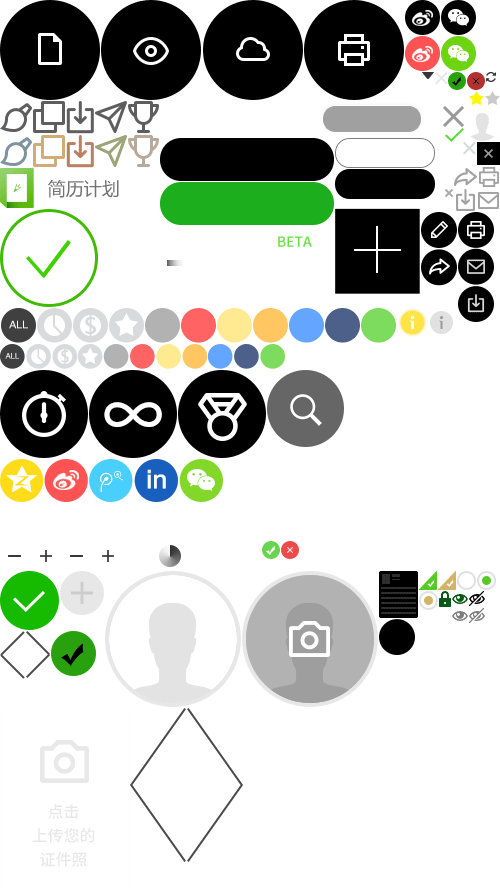
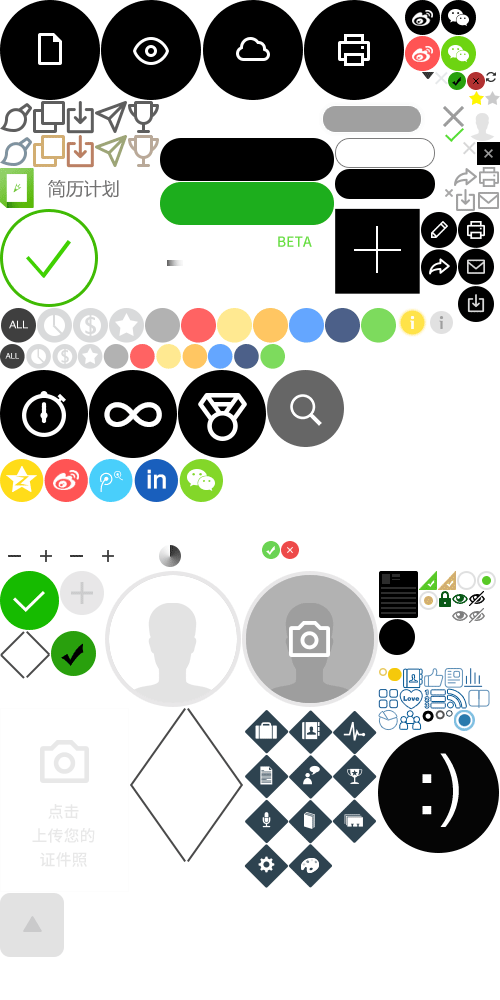
submit

diff --git a/css/style.css b/css/style.css
@@ -69,7 +69,7 @@ a:hover{color:#333; text-decoration:none;}
 .i_icoColorOne, .i_icoColorTwo, .i_icoColorThree, .i_icoColorFour, .i_icoColorFive, .i_icoColorSix, .i_icoColorSeven, .i_icoColorEight, .i_icoColorNine, .i_icoColorTen, .i_icoColorEleven,
 .btnC, .btnD, .btnE, .btnH,
 .i_icoSone, .i_icoStwo, .i_icoSthrere, .i_icoSfour, .i_icoSfive, .i_icoCloseW, .i_icoReplace, .i_icoExport, .i_icoSok, .i_icoLeft, .i_icoRight, .i_icoLeftNo, .i_icoRightNo,
-.i_icoInfo, .i_icoMone, .i_icoMtwo, .i_icoMthree, .i_icoMfour, .i_icoMfive, .i_icoMsix, .i_icoMseven, .i_icoMeight, .i_icoMnine, .i_icoMten, .i_icoMeleven, .i_icoMtwelve, .i_icoAdds, .i_icoCut, .i_icoThrough, .i_icoLoad, .i_icoWadd, .i_icoCloseSmall, .i_icoErrors, .loginImgA, .i_icoPay, .payTableGreen i, .payTableOrange i, .payCon_radio i, .payCon_radioGreen.on i, .payCon_radioOrange.on i, .i_icoPicture, .i_icoPoint, .i_icoPoints, .i_icoPointss, .i_icoPointssss, .i_icoLock, .i_icoLookB, .i_icoUnlook, .i_icoLooks, .i_icoUnlooks, .resumeMenu_list a:hover i, .i_icoTime
+.i_icoInfo, .i_icoMone, .i_icoMtwo, .i_icoMthree, .i_icoMfour, .i_icoMfive, .i_icoMsix, .i_icoMseven, .i_icoMeight, .i_icoMnine, .i_icoMten, .i_icoMeleven, .i_icoMtwelve, .i_icoAdds, .i_icoCut, .i_icoThrough, .i_icoLoad, .i_icoWadd, .i_icoCloseSmall, .i_icoErrors, .loginImgA, .i_icoPay, .payTableGreen i, .payTableOrange i, .payCon_radio i, .payCon_radioGreen.on i, .payCon_radioOrange.on i, .i_icoPicture, .i_icoPoint, .i_icoPoints, .i_icoPointss, .i_icoPointssss, .i_icoLock, .i_icoLookB, .i_icoUnlook, .i_icoLooks, .i_icoUnlooks, .resumeMenu_list a:hover i, .i_icoTime, .i_icoBone, .i_icoBtwo, .i_icoBthree, .i_icoBfour, .i_icoBfive, .i_icoBsix, .i_icoBseven, .i_icoBeight, .i_icoBnine, .i_icoBten, .i_icoBeleven, .i_icoBtwelve, .i_icoBthirteen, .i_icoCone, .i_icoCtwo, .i_icoCthree, .i_icoCfour, .i_icoCfive, .i_icoCsix, .i_icoCseven, .i_icoCeight, .i_icoCnine, .i_icoCten, .i_icoCeleven, .i_icoCtwelve, .i_icoPrion, .i_icoNot, .i_icoScrollTop
 {background:url(../images/icon_01.png) no-repeat; _background:url(../images/icon_01_8.png) no-repeat; display:inline-block; vertical-align:middle; overflow:hidden;}
 .logo{background-position:-160px -226px; width:166px; height:40px;}
 .logoOther{background-position:-160px -226px; width:34px; height:40px;}
@@ -204,6 +204,36 @@ a:hover{color:#333; text-decoration:none;}
 .i_icoUnlooks{background-position:-469px -608px; width:16px; height:16px;}
 .i_icoTime{background-position:-388px -668px; width:14px; height:13px;}
 .i_icoYellow{background-color:#ffc739; width:4px; height:4px; display:inline-block; vertical-align:middle;}
+.i_icoBone{background-position:-403px -668px; width:20px; height:20px;}
+.i_icoBtwo{background-position:-424px -668px; width:19px; height:20px;}
+.i_icoBthree{background-position:-444px -668px; width:19px; height:20px;}
+.i_icoBfour{background-position:-464px -668px; width:18px; height:20px;}
+.i_icoBfive{background-position:-378px -689px; width:20px; height:20px;}
+.i_icoBsix{background-position:-399px -689px; width:24px; height:20px;}
+.i_icoBseven{background-position:-424px -689px; width:22px; height:20px;}
+.i_icoBeight{background-position:-447px -689px; width:20px; height:20px;}
+.i_icoBnine{background-position:-468px -689px; width:22px; height:20px;}
+.i_icoBten{background-position:-378px -710px; width:20px; height:20px;}
+.i_icoBeleven{background-position:-399px -710px; width:22px; height:20px;}
+.i_icoBtwelve{background-position:-422px -710px; width:12px; height:12px;}
+.i_icoBthirteen{background-position:-435px -710px; width:10px; height:10px;}
+
+.i_icoCone{background-position:-245px -710px; width:43px; height:43px;}
+.i_icoCtwo{background-position:-289px -710px; width:43px; height:43px;}
+.i_icoCthree{background-position:-333px -710px; width:43px; height:43px;}
+.i_icoCfour{background-position:-245px -755px; width:43px; height:43px;}
+.i_icoCfive{background-position:-289px -755px; width:43px; height:43px;}
+.i_icoCsix{background-position:-333px -755px; width:43px; height:43px;}
+.i_icoCseven{background-position:-245px -800px; width:43px; height:43px;}
+.i_icoCeight{background-position:-289px -800px; width:43px; height:43px;}
+.i_icoCnine{background-position:-333px -800px; width:43px; height:43px;}
+.i_icoCten{background-position:-245px -844px; width:43px; height:43px;}
+.i_icoCeleven{background-position:-289px -844px; width:43px; height:43px;}
+.i_icoCtwelve{background-position:-446px -710px; width:7px; height:7px;}
+
+.i_icoPrion{background-position:-454px -710px; width:21px; height:21px;}
+.i_icoNot{background-position:-378px -732px; width:121px; height:121px;}
+.i_icoScrollTop{background-position:0 -893px; width:64px; height:64px;}
 
 /*按钮*/
 .btnLogin{background-position:-214px -101px; width:106px; height:36px; text-align:center; line-height:36px; color:#fff; font-size:14px;}
@@ -550,6 +580,9 @@ a:hover{color:#333; text-decoration:none;}
 .templateP{height:55px; line-height:55px; width:310px; overflow:hidden; white-space:nowrap; text-overflow:ellipsis; font-size:18px; text-align:center; color:#565656;}
 .templateTime{position:absolute; right:0; bottom:0; font-size:14px; color:#fff;	 width:295px; height:42px; line-height:42px; text-align:right; padding-right:13px;}
 .templateTimeBg{position:absolute; right:0; bottom:0; width:308px; height:42px; background:#000; filter:alpha(opacity=30); -moz-opacity:0.3; -khtml-opacity:0.3; opacity:0.3;}
+.templateBgNot{text-align:center; padding-top:120px;}
+.templateBgNot h2{color:#919191; font-size:30px; line-height:30px; margin-top:70px;}
+.templateBgNot p{color:#919191; margin-top:15px;}
 
 /*白色弹出框*/
 .i_icoPromptBtn{position:fixed; right:12px; top:72px; z-index:1;}
@@ -690,7 +723,10 @@ a:hover{color:#333; text-decoration:none;}
 .resumeCon_right strong{background-color:#d94a39; border-bottom:1px solid #eca69e; line-height:20px; padding:44px 0 5px; color:#fff; font-size:14px; display:block; width:75px; margin-bottom:6px;}
 .resumeCon_right p{line-height:20px;}
 .resumeCon_right span{border-top:1px solid #eca69e; display:block; overflow:hidden; background-color:#d94a39; width:75px; height:5px; margin-top:7px;}
-.resumeConBg_one{position:absolute; left:0; bottom:0; background:#ff1c1c; filter:alpha(opacity=15); -moz-opacity:0.15; -khtml-opacity:0.15; opacity:0.15; width:100%; height:116px;}
+
+/*补丁容器*/
+.resumeConOther{clear:both; border-top:1px solid #ccc; padding:0 28px;}
+.resumeConBg_one{position:absolute; left:0; bottom:0; background:#ff1c1c; filter:alpha(opacity=15); -moz-opacity:0.15; -khtml-opacity:0.15; opacity:0.15; width:100%; height:186px;}
 .resumeConBg_two{position:absolute; left:0; top:0; background:#ff1c1c; filter:alpha(opacity=15); -moz-opacity:0.15; -khtml-opacity:0.15; opacity:0.15; width:50%; height:100%;}
 
 .resumeConBox{padding-top:0;}
@@ -748,10 +784,10 @@ a:hover{color:#333; text-decoration:none;}
 .resumeCon_topRight_b{float:left; color:#757575;}
 .resumeCon_bottom{border-top:1px solid #bdbdbd; padding-top:4px; color:#bdbdbd; margin:60px auto 10px; width:50px; display:block;}
 
-.resumeConE{padding:7px 10px; font-family:Arial;}
+.resumeConE{ font-family:Arial; width:813px; margin:0 auto;}
 .resumeConE_header{background-color:#ffc739; padding:19px 42px; color:#fff;}
 .resumeConE_header img{float:left; width:118px;}
-.resumeConE_headerRight{float:left; margin-left:12px; width:723px; padding-top:15px;}
+.resumeConE_headerRight{float:left; margin-left:12px; width:500px; padding-top:15px;}
 .resumeConE_headerRight h2{ font-size:21px; line-height:26px; height:26px;}
 .resumeConE_headerRight ul{margin-top:5px;}
 .resumeConE_headerRight li{float:left; font-size:14px; line-height:22px; margin-right:10px;}
@@ -767,7 +803,7 @@ a:hover{color:#333; text-decoration:none;}
 .resumeConE_box_info li{margin-top:5px; font-size:13px;}
 .resumeConE_box_info strong{font-size:15px; color:#666; line-height:20px;}
 .resumeConE_box_info i{margin:-2px 6px 0 0;}
-.resumeConE_list_li{border-top:1px dashed #4b4b4b; padding:22px 0;}
+.resumeConE_list_li{border-bottom:1px dashed #4b4b4b; padding:22px 0;}
 .resumeConE_list_title{display:block; color:#666; font-size:15px; position:relative; zoom:1; margin-top:10px;}
 .resumeConE_list_title em{border-left:1px solid #ffc739; margin-left:5px; padding-left:5px;  color:#6a6a6a; font-size:12px; font-weight:normal;}
 .resumeConE_list_title span{position:absolute; right:0; top:0; color:#6a6a6a; font-size:12px; font-weight:normal;}
@@ -778,6 +814,161 @@ a:hover{color:#333; text-decoration:none;}
 .resumeConE_lists em{border-left:1px solid #d2d2d2; color:#ffc739; padding-left:4px;}
 .resumeConE_footer{background-color:#ffc739; height:16px; overflow:hidden;}
 
+.resumeConF{width:813px; margin:0 auto;}
+.resumeConF_header{background-color:#efefee; text-align:center; padding-top:31px;}
+.resumeConF_header img{width:115px; height:115px;
+	-moz-border-radius:60px;
+    -webkit-border-radius:60px;
+    border-radius:60px;
+}
+.resumeConF_header h2{color:#010101; font-size:26px; line-height:30px; margin-top:12px;}
+.resumeConF_header p{text-align:center; color:#005993; line-height:20px; margin-top:10px;}
+.resumeConF_header_nav{height:39px; line-height:39px; color:#fff; background-color:#595b5b; margin-top:5px;}
+.resumeConF_header_nav span{margin:0 20px;}
+
+.titleOne{height:20px; line-height:20px; color:#005993; font-size:16px; border-bottom:1px solid #aaa; display:block;}
+.titleOne span{position:relative; top:10px; background-color:#fff; padding-right:5px;}
+.titleOne i{margin-right:7px; position:relative; top:-3px;}
+
+.resumeConF_con{margin-top:20px; color:#000;}
+.resumeConF_con strong, .resumeConF_con p{position:relative; display:block; line-height:20px;}
+.resumeConF_con strong i, .resumeConF_con p i{position:absolute; top:4px; left:-14px;}
+.resumeConF_con strong span{position:absolute; right:0; top:0; font-weight:normal;}
+.resumeConF_con .fl{width:114px;}
+.resumeConF_con .fr{float:left; width:210px; margin-left:20px;}
+.resumeConF_con .fr strong{color:#005993; display:inline-block;}
+
+.resumeConG{width:813px; margin:0 auto;}
+.resumeConG_header{height:90px; line-height:90px; padding:0 50px;}
+.resumeConG_header strong{font-size:40px; color:#000;}
+.resumeConG_header span{color:#0d6c40; font-size:14px; font-weight:bold; margin-left:28px;}
+.resumeConG_header-img{background-color:#0d6c40; font-size:16px; height:76px; color:#fff; padding:0 50px; position:relative;}
+.resumeConG_header-img ul{width:520px; padding-top:15px;}
+.resumeConG_header-img li{float:left; line-height:24px; margin-right:20px;}
+.resumeConG_header-img p{position:absolute; right:-10px; top:-40px; border:3px solid #0d6c40; width:150px; height:150px; background-color:#fff;
+	-moz-border-radius:80px;
+    -webkit-border-radius:80px;
+    border-radius:80px;
+}
+
+.resumeConG_list{padding:0 40px; margin-top:25px;}
+.resumeConG_list .infoBox h2{font-size:24px; line-height:30px;}
+.resumeConG_listBox{border-left:2px solid #0d6c40; padding:5px 0 5px 12px; margin-top:17px;}
+.resumeConG_listBox strong{color:#0d6c40; font-size:18px; font-weight:normal; position:relative; display:block;}
+.resumeConG_listBox strong span{position:absolute; right:0; top:0; color:#000; font-size:14px; font-weight:bold;}
+.resumeConG_listBox p{font-size:14px; color:#575757; line-height:26px; margin-top:5px;}
+.resumeConG_listBox li{margin-top:3px; line-height:20px;}
+.resumeConG_listBox li i{background-color:#0d6c40; width:5px; height:5px; display:inline-block; vertical-align:middle; margin-right:12px;
+	-moz-border-radius:3px;
+    -webkit-border-radius:3px;
+    border-radius:3px;
+}
+.resumeConG_listBox li span{color:#0d6c40;}
+.resumeConG_listBox_listOther li{width:200px;}
+.resumeConG_listBox_list li{float:left; margin-right:20px;}
+.resumeConG_listBox_list li strong{font-size:12px; display:inline-block; width:100px; height:20px; overflow:hidden; white-space:nowrap; text-overflow:ellipsis; vertical-align:middle;}
+.resumeConG_listBox_list li span{font-size:12px; margin-left:10px; color:#0d6c40; vertical-align:middle;}
+.resumeConG_listBox_list li p{font-size:12px; line-height:20px; color:#575757; margin-top:0; margin-left:17px;}
+.resumeConG_listBox_right{float:left; border-left:3px solid #5ca5da; padding-left:47px; width:532px;}
+.resumeConG_listBox_right strong{font-size:18px; font-weight:normal; margin-bottom:10px; display:block;}
+.resumeConG_listBox_right p{line-height:20px;}
+
+.resumeConHBox{width:813px; margin:0 auto;}
+.resumeConH{background-color:#5ca5da; padding:35px 55px 30px; color:#fff; border-bottom:1px solid #bcbcbc;
+	-moz-box-shadow:0 0 3px #478bbc inset;
+    -webkit-box-shadow:0 0 3px #478bbc inset;
+    box-shadow:0 0 3px #478bbc inset;
+}
+.resumeConH_left{float:left; width:530px;}
+.resumeConH_left h2{font-size:46px; line-height:50px; font-weight:normal;}
+.resumeConH_left ul{margin-top:10px;}
+.resumeConH_left li{float:left; margin-right:10px; font-size:14px; margin-right:10px; line-height:20px; letter-spacing:-0.03em;}
+.resumeConH_right{float:right; width:173px; text-align:right; font-size:16px; letter-spacing:-0.05em; line-height:24px;}
+.resumeConH_right strong{display:block; margin-top:50px;}
+.resumeConH_list{padding:0 55px; color:#666;}
+.resumeConH_list_li{border-bottom:1px dashed #5ca5da; padding:10px 0 20px;}
+.resumeConH_list .infoBox h2{font-size:36px; line-height:40px; font-weight:normal;}
+.resumeConH_listBox{margin-top:20px;}
+.resumeConH_listBox span{float:left; width:200px; padding-left:46px; font-size:16px; line-height:20px; padding-top:10px;}
+.resumeConH_listInfo strong{position:relative; font-size:18px; font-weight:normal; display:block; margin-top:25px;}
+.resumeConH_listInfo span{font-size:14px;}
+.resumeConH_listInfo em{position:absolute; right:0; top:0; font-size:14px;}
+.resumeConH_listInfo i{width:5px; height:5px; background-color:#5ca5da; vertical-align:middle; display:inline-block; margin-right:20px;}
+.resumeConH_listInfo ul{margin-top:15px;}
+.resumeConH_listInfo li{font-size:14px; line-height:24px;}
+.resumeConH_listInfo_list li{float:left; margin-right:20px;}
+.resumeConH_listInfo_list p{margin-left:24px;}
+.resumeConH_listInfo_list p span{color:#5ca5da;}
+.resumeConH_listInfo_listOther li{margin-right:80px;}
+.resumeConH_footer{height:24px; background-color:#5ca5da; border-top:1px solid #c4c4c4; margin-top:55px;}
+
+.resumeConI{width:813px; margin:0 auto;}
+.resumeConI_header{background-color:#5e5e5e; padding:21px 49px 21px 42px; color:#d0d0d0;}
+.resumeConI_header img{float:left; width:121px; height:122px;
+	-moz-border-radius:61px;
+    -webkit-border-radius:61px;
+    border-radius:61px;
+}
+.resumeConI_header_info{float:left; margin-left:25px; width:280px; margin-top:10px;}
+.resumeConI_header_info h2{font-size:34px; line-height:40px; margin-bottom:10px;}
+.resumeConI_header_info p{line-height:20px; font-size:13px;}
+.resumeConI_header_tell{float:right; width:178px; height:55px; border:1px solid #314551; padding:8px 0 0 14px; margin-top:29px;
+	-moz-border-radius:5px;
+    -webkit-border-radius:5px;
+    border-radius:5px;
+}
+.resumeConI_header_tell p{line-height:24px;}
+
+.resumeConI_body{padding:0 38px;}
+.resumeConI_body .infoBox h2{width:138px; height:32px; border:1px solid #4a5c67; display:block; position:relative; text-align:center; line-height:32px; color:#2e4350; font-size:16px; margin-bottom:20px;
+	-moz-border-radius:10px;
+    -webkit-border-radius:10px;
+    border-radius:10px;
+}
+.resumeConI_body h2 i{position:absolute; left:-22px; top:-7px;}
+.resumeConI_body strong{position:relative; display:block; color:#030000; font-size:13px;}
+.resumeConI_body strong i, .resumeConI_body p i{position:absolute; left:-13px; top:3px;}
+.resumeConI_body p i{top:6px;}
+.resumeConI_body strong span{position:absolute; right:0; top:0; font-weight:normal; margin-top:0;}
+.resumeConI_body span{display:block; color:#2e4350; margin-top:8px; font-size:13px;}
+.resumeConI_body p{color:#636363; line-height:20px; font-size:13px; margin-top:5px; position:relative;}
+
+.resumeConJ{width:813px; margin:0 auto;}
+.resumeConJ_header_bg{background-color:#6d6d6d; height:11px; }
+.resumeConJ_header{padding:34px 60px 0;}
+.resumeConJ_header img{float:left; width:120px;
+	-moz-border-radius:61px;
+    -webkit-border-radius:61px;
+    border-radius:61px;
+}
+.resumeConJ_header_info{float:left; margin-left:24px;}
+.resumeConJ_header_info h2{font-size:34px; line-height:40px; margin:20px 0 10px; color:#010101}
+.resumeConJ_header_info p{line-height:20px; font-size:13px; color:#818181;}
+
+.resumeConJ_body{padding:0 30px;}
+.resumeConJ_body .infoBox h2{color:#7ebfe0; font-size:18px; position:relative;}
+.resumeConJ_body .infoBox h2 .i_icoPrion{margin-right:10px;}
+.resumeConJ_body .infoBox h2 span{border:1px solid #cccccc; position:absolute; left:123px; top:10px; display:inline-block; width:237px;}
+.resumeConJ_body_box{border-left:1px solid #dadbdb; padding:10px 0 10px 18px; margin:10px 0 0 10px;}
+.resumeConJ_body_box strong{position:relative; zoom:1; display:block; color:#221815; font-size:13px; line-height:20px;}
+.resumeConJ_body_box strong i{background-color:#2d2d2d; width:5px; height:5px; position:absolute; left:-21px; top:8px;
+	-moz-border-radius:10px;
+    -webkit-border-radius:10px;
+    border-radius:10px;
+}
+.resumeConJ_body_box strong span{position:absolute; right:0; top:0; color:#231916; font-weight:normal;}
+.resumeConJ_body_box span{font-size:13px; color:#231815; margin-top:5px; display:block;}
+.resumeConJ_body_box p{ line-height:20px; margin-top:3px;}
+.resumeConJ_body_box p i{border:1px solid #b3b3b3; width:7px; height:7px; margin-right:7px; display:inline-block; vertical-align:middle;
+	-moz-border-radius:10px;
+    -webkit-border-radius:10px;
+    border-radius:10px;
+}
+.resumeConJ_body_boxOther{margin-top:10px; font-size:13px;}
+.resumeConJ_body_boxOther span{float:left; width:114px; display:block; line-height:20px;}
+.resumeConJ_body_boxOther_right{float:left; width:155px;}
+.resumeConJ_body_boxOther_right strong{line-height:20px; color:#005993;}
+.resumeConJ_body_boxOther_right p{line-height:20px;}
 
 .infoBox{border:1px solid #fff; padding:10px;}
 .infoBox.focus{border:1px solid #16bb00;
@@ -987,17 +1178,22 @@ a:hover{color:#333; text-decoration:none;}
 .payMoneyGreen strong{color:#80d244;}
 .payMoneyOrange strong{color:#dab764;}
 
+/* 置顶 */
+.scrollTop{position:fixed; right:50px; bottom:100px; z-index:2;}
+
+/*960*/
+.resumeConBig{width:932px;}
+.resumeCon960{width:960px;}
+
 /*错误提示*/
 .tips{position:absolute; left:0; top:65px; background-color:#8d8f91\9; width:268px; min-height:40px; color:#fff; font-size:14px; padding:5px 10px; line-height:20px;}
 :root .tips{background-color:rgba(0, 0, 0, 0.5);}
 
 .msg{  position: fixed; z-index: 9999; top: 0px; left: 45%; opacity: 1;  display: block;
-text-align:center;padding:4px 15px;display:inline-block;background-color:#68af02;color:#FFF;-webkit-border-radius:3px;-moz-border-radius:3px;border-radius:3px;_font-family:"\5b8b\4f53";
+text-align:center;padding:7px 15px;display:inline-block;background-color:#68af02;color:#FFF;-webkit-border-radius:3px;-moz-border-radius:3px;border-radius:3px;_font-family:"\5b8b\4f53";
     -webkit-animation: menus .2s ease-out;
     -moz-animation: menus .2s ease-out;
     animation: menus .2s ease-out;
 }
-
 .msgRed{text-align:center;padding:4px 15px;display:inline-block;background-color:#de0202;color:#FFF;-webkit-border-radius:3px;-moz-border-radius:3px;border-radius:3px;_font-family:"\5b8b\4f53";}
-
 .msgYellow{background-color:#ffffaa;border:1px solid #ffffaa;color:#444;_font-family:"\5b8b\4f53";}

diff --git a/js/src/we.selected.view.js b/js/src/we.selected.view.js
@@ -83,6 +83,7 @@
             this.ui.btnWhite = $("#btn-white");
             this.ui.whiteTmpl = $("#white-tmpl");
             this.ui.wrap = $("#wrap");
+            this.ui.empty = $("#empty");
             this.ui.btnSearch = this.ui.main.find(".btn-search");
 
             //this.ui.wrap.empty();
@@ -138,6 +139,8 @@
                 this.ui.wrap.append(item.getElement());
             }
 
+            
+
             this.isLoading = false;
 
             setTimeout(function () {
@@ -155,9 +158,19 @@
             };
 
             options.success = function (result) {
+                var data = result.data.list;
+
+                if(_.isEmpty(data)){
+                    this.ui.wrap.hide();
+                    this.ui.empty.show();
+                }else{
+                    this.ui.wrap.show();
+                    this.ui.empty.hide();
+                }
+
                 this.model.set({
-                    pageCount: result.data.pageCount,
-                    data: this.model.parse(result.data.list)
+                    pageCount: result.data.pageCount || 1,
+                    data: this.model.parse(data)
                 },{silent:true});
 
                 this.model.trigger("change:data");

diff --git a/html/selected.html b/html/selected.html
@@ -130,6 +130,11 @@
 		<div class="template">
 			<div class="templateBg clearfix">
 					<ul id="wrap"></ul>
+					<div class="templateBgNot" style="display:none;" id="empty">
+						<i class="i_icoNot"></i>
+						<h2>Opps~好像没有您想要的模板</h2>
+						<p>我们的设计师正在加紧制作模板中，要不您先试试其他的？</p>
+					</div>
 			</div>
 		</div>
 	</div>
